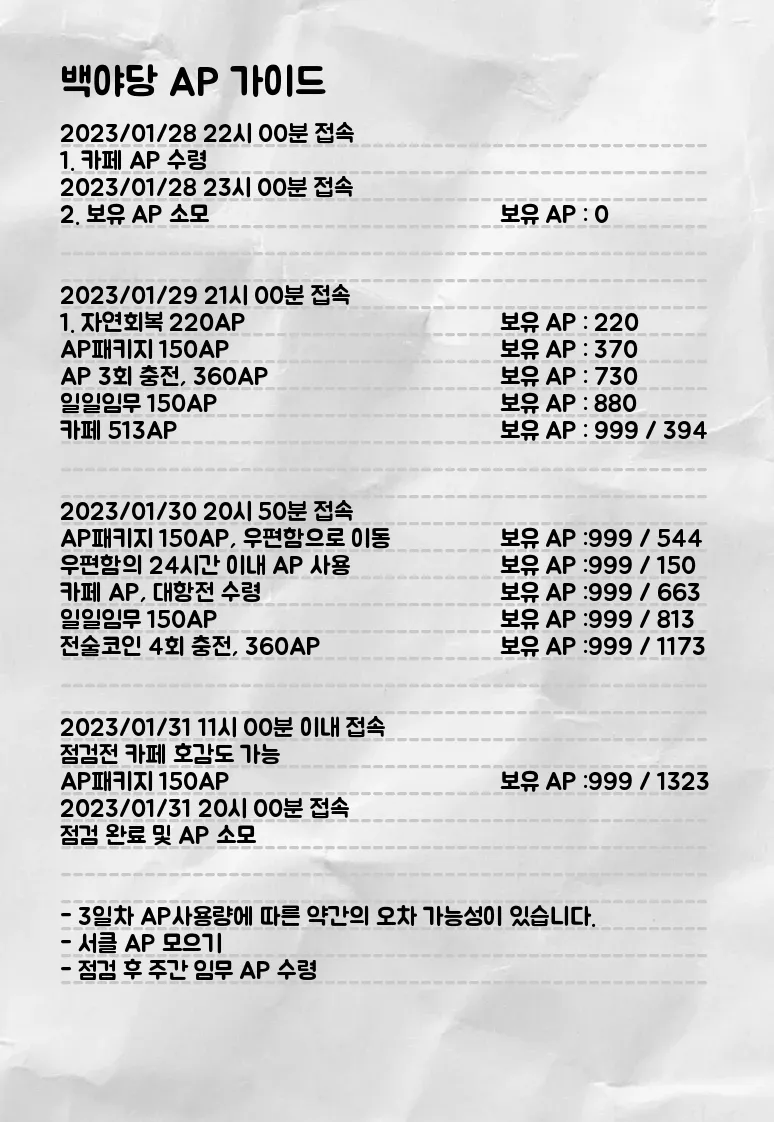
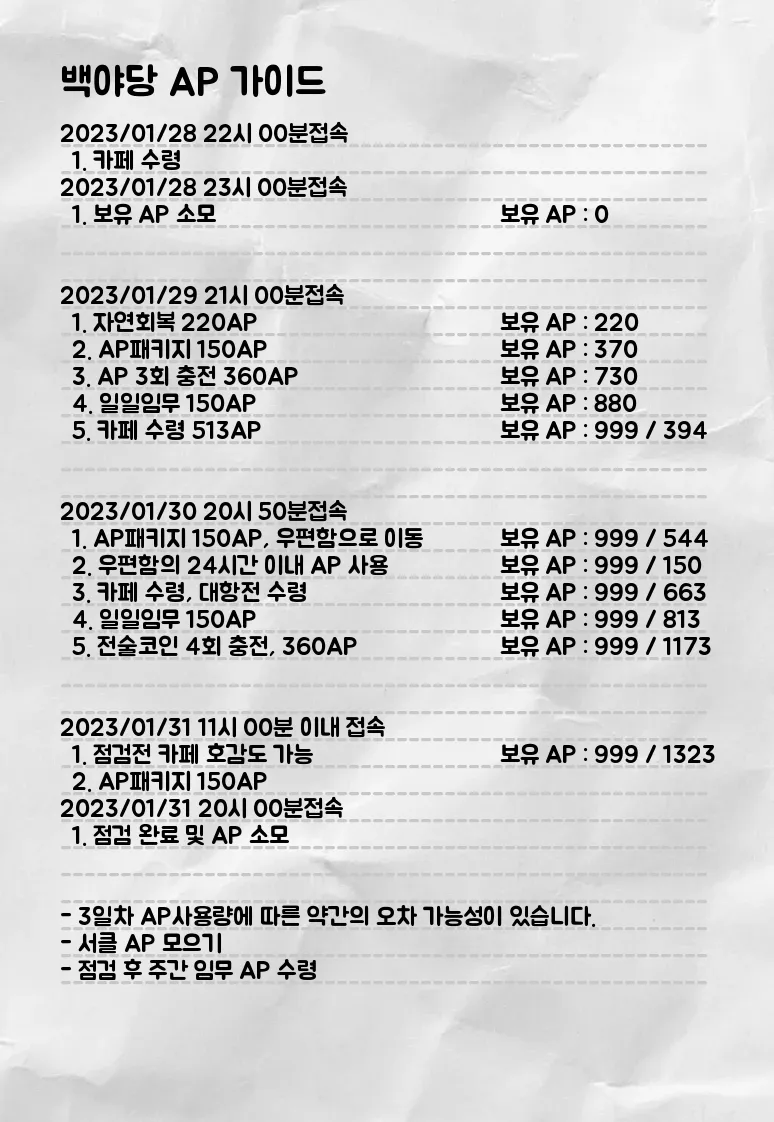
ApGuide 개선

diff --git a/ApGuide/FunctionApGuide.py b/ApGuide/FunctionApGuide.py
@@ -1,5 +1,6 @@
 from datetime import datetime, timedelta
 from PIL import Image, ImageDraw, ImageFont
+from multipledispatch import dispatch
 # AP가이드 파일
 # 현상수배 티켓도 추가 예정
 # 일정에 추가 기능 - 버튼(gui로 구현)
@@ -28,77 +29,92 @@ fnt_title = ImageFont.truetype("BMJUA_ttf.ttf",40)
 fnt_content = ImageFont.truetype("BMJUA_ttf.ttf",25)
 fnt_underline = ImageFont.truetype("BMJUA_ttf.ttf",25)
 
-txt_content_ap =''
+# 텍스트 변수 정의
+txt_content_day = ['','','','']
+txt_content_ap = ''
 txt_content_underline =''
+
+# 함수 정의
+def ContextTime(day,min):
+    return (login_time-timedelta(days=day)+timedelta(minutes=min)).strftime('%Y/%m/%d %H시 %M분') + '접속\n'
+@dispatch(int)
+def CalAp(ap):
+        return '보유 AP : ' + str(ap) + '\n'
+@dispatch(int,int)
+def CalAp(ap,ap_post):
+        return '보유 AP : ' + str(ap) + ' / ' + str(ap_post) + '\n'
+
 
 txt_title = event_name + ' AP 가이드'
 
-txt_content_day1 = (login_time-timedelta(days=3)+timedelta(minutes=120)).strftime('%Y/%m/%d %H시 %M분') + ' 접속\n'
-txt_content_day1 += '1. 카페 AP 수령\n'
-txt_content_day1 += (login_time-timedelta(days=3)+timedelta(minutes=180)).strftime('%Y/%m/%d %H시 %M분') + ' 접속\n'
-txt_content_day1 += '2. 보유 AP 소모\n'
-txt_content_day1 += '\n\n'
+txt_content_day[0] = ContextTime(3,120)
+txt_content_day[0] += '  1. 카페 수령\n'
+txt_content_day[0] += ContextTime(3,180)
+txt_content_day[0] += '  1. 보유 AP 소모\n'
+txt_content_day[0] += '\n\n'
 ap_remain = 0
-txt_content_ap += '\n\n\n보유 AP : ' + str(ap_remain) + '\n\n\n'
+txt_content_ap += '\n\n\n'+ CalAp(ap_remain) + '\n\n\n'
 
-txt_content_day2 = (login_time-timedelta(days=2)+timedelta(minutes=60)).strftime('%Y/%m/%d %H시 %M분') + ' 접속\n'
-txt_content_day2 += '1. 자연회복 220AP\n'
-txt_content_day2 += 'AP패키지 150AP\n'
-txt_content_day2 += 'AP 3회 충전, 360AP\n'
-txt_content_day2 += '일일임무 150AP\n'
-txt_content_day2 += '카페 513AP\n'
-txt_content_day2 += '\n\n'
+txt_content_day[1] = ContextTime(2,60)
+txt_content_day[1] += '  1. 자연회복 220AP\n'
+txt_content_day[1] += '  2. AP패키지 150AP\n'
+txt_content_day[1] += '  3. AP 3회 충전 360AP\n'
+txt_content_day[1] += '  4. 일일임무 150AP\n'
+txt_content_day[1] += '  5. 카페 수령 513AP\n'
+txt_content_day[1] += '\n\n'
 ap_remain += 220
-txt_content_ap += '\n보유 AP : ' + str(ap_remain)
+txt_content_ap += CalAp(ap_remain)
 ap_remain += 150
-txt_content_ap += '\n보유 AP : ' + str(ap_remain)
+txt_content_ap += CalAp(ap_remain)
 ap_remain += 120*3
-txt_content_ap += '\n보유 AP : ' + str(ap_remain)
+txt_content_ap += CalAp(ap_remain)
 ap_remain += 150
-txt_content_ap += '\n보유 AP : ' + str(ap_remain)
+txt_content_ap += CalAp(ap_remain)
 ap_remain += 513
 if ap_remain >1000:
     ap_post = ap_remain-999
     ap_remain -=ap_post
-txt_content_ap += '\n보유 AP : ' + str(ap_remain) + ' / ' + str(ap_post) + '\n\n\n'
+txt_content_ap += CalAp(ap_remain,ap_post) + '\n\n\n'
 
-txt_content_day3 = (login_time-timedelta(days=1)+timedelta(minutes=50)).strftime('%Y/%m/%d %H시 %M분') + ' 접속\n'
-txt_content_day3 += 'AP패키지 150AP, 우편함으로 이동\n'
-txt_content_day3 += '우편함의 24시간 이내 AP 사용\n'
-txt_content_day3 += '카페 AP, 대항전 수령\n'
-txt_content_day3 += '일일임무 150AP\n'
-txt_content_day3 += '전술코인 4회 충전, 360AP\n'
-txt_content_day3 += '\n\n'
+txt_content_day[2] = ContextTime(1,50)
+txt_content_day[2] += '  1. AP패키지 150AP, 우편함으로 이동\n'
+txt_content_day[2] += '  2. 우편함의 24시간 이내 AP 사용\n'
+txt_content_day[2] += '  3. 카페 수령, 대항전 수령\n'
+txt_content_day[2] += '  4. 일일임무 150AP\n'
+txt_content_day[2] += '  5. 전술코인 4회 충전, 360AP\n'
+txt_content_day[2] += '\n\n'
 ap_post += 150
-txt_content_ap += '\n보유 AP :' + str(ap_remain) + ' / ' + str(ap_post)
+txt_content_ap += CalAp(ap_remain,ap_post)
 ap_post = 150
-txt_content_ap += '\n보유 AP :' + str(ap_remain) + ' / ' + str(ap_post)
+txt_content_ap += CalAp(ap_remain,ap_post)
 ap_post += 513
-txt_content_ap += '\n보유 AP :' + str(ap_remain) + ' / ' + str(ap_post)
+txt_content_ap += CalAp(ap_remain,ap_post)
 ap_post += 150
-txt_content_ap += '\n보유 AP :' + str(ap_remain) + ' / ' + str(ap_post)
+txt_content_ap += CalAp(ap_remain,ap_post)
 ap_post += 360
-txt_content_ap += '\n보유 AP :' + str(ap_remain) + ' / ' + str(ap_post) + '\n\n\n'
+txt_content_ap += CalAp(ap_remain,ap_post) + '\n\n\n'
 
-txt_content_day4 = update_time_start.strftime('%Y/%m/%d %H시 %M분') + ' 이내 접속\n'
-txt_content_day4 += '점검전 카페 호감도 가능\n'
-txt_content_day4 += 'AP패키지 150AP\n'
-txt_content_day4 += login_time.strftime('%Y/%m/%d %H시 %M분') + ' 접속\n'
-txt_content_day4 += '점검 완료 및 AP 소모\n'
-txt_content_day4 += '\n\n'
+txt_content_day[3] = update_time_start.strftime('%Y/%m/%d %H시 %M분') + ' 이내 접속\n'
+txt_content_day[3] += '  1. 점검전 카페 호감도 가능\n'
+txt_content_day[3] += '  2. AP패키지 150AP\n'
+txt_content_day[3] += ContextTime(0,0)
+txt_content_day[3] += '  1. 점검 완료 및 AP 소모\n'
+txt_content_day[3] += '\n\n'
 ap_post += 150
-txt_content_ap += '\n\n보유 AP :' + str(ap_remain) + ' / ' + str(ap_post)
+txt_content_ap += CalAp(ap_remain,ap_post)
 
 txt_content_etc = '- 3일차 AP사용량에 따른 약간의 오차 가능성이 있습니다.\n'
 txt_content_etc +='- 서클 AP 모으기\n' + '- 점검 후 주간 임무 AP 수령\n'
 
-txt_content = txt_content_day1+txt_content_day2+txt_content_day3+txt_content_day4+txt_content_etc
-count_underline = txt_content.count('\n')
+txt_day = ''.join(txt_content_day)+txt_content_etc
+
+count_underline = txt_day.count('\n')
 for i in range(0,count_underline) :
     txt_content_underline += '------------------------------------------------------\n'
 
+
 d.text((60,60), txt_title,font=fnt_title, fill=(0,0,0))
-d.text((60,120), txt_content,font=fnt_content, fill=(0,0,0))
+d.text((60,120), txt_day,font=fnt_content, fill=(0,0,0))
 d.text((500,120), txt_content_ap,font=fnt_content, fill=(0,0,0))
 d.text((60,134),txt_content_underline,font=fnt_content, fill=(200,200,200))
 
